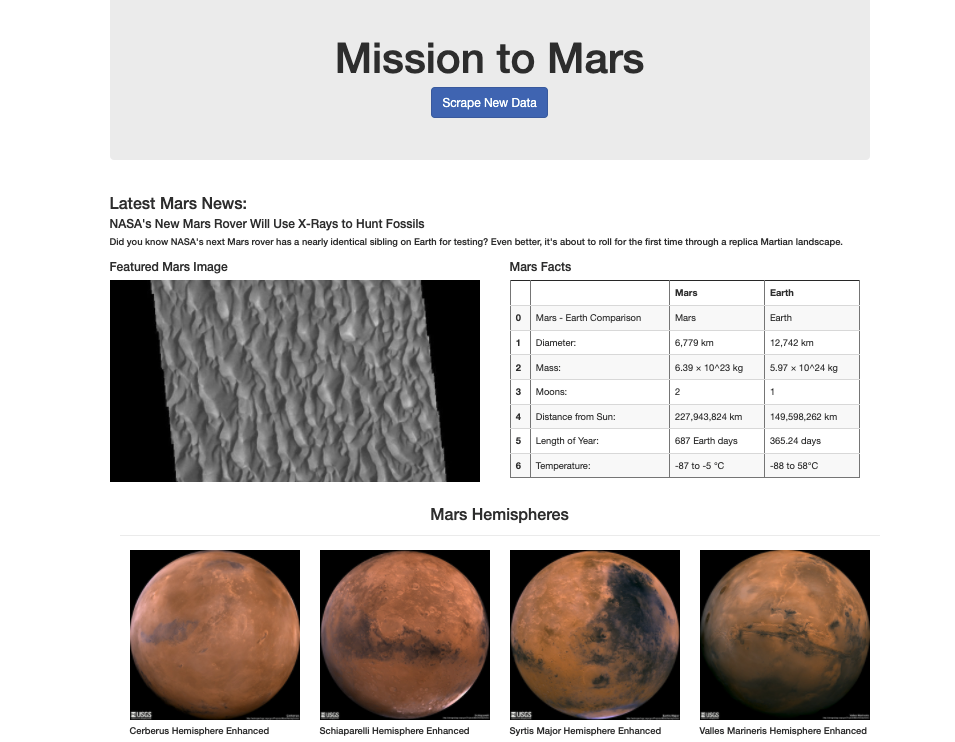
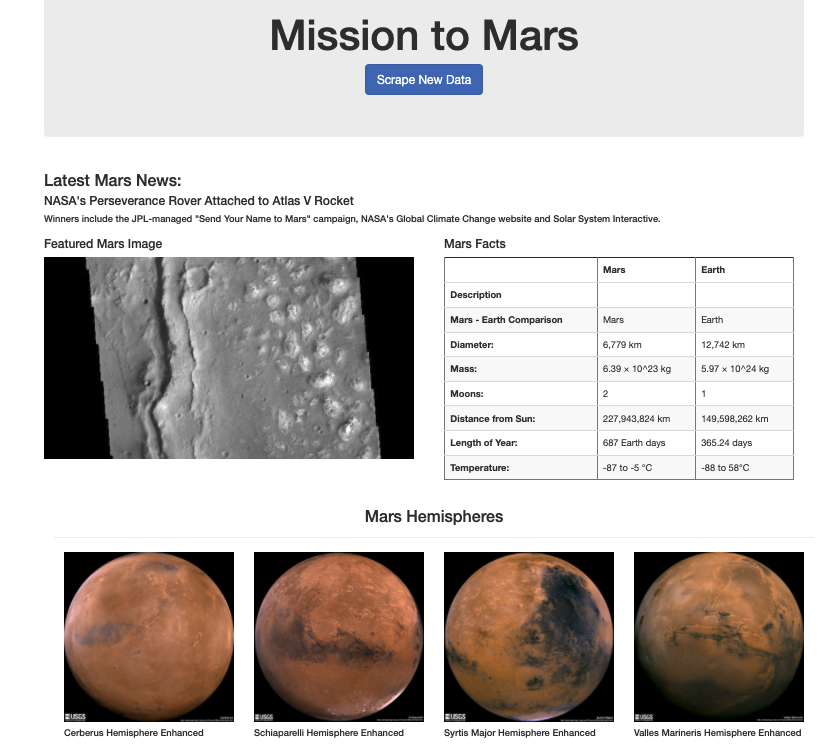
Last updates.

diff --git a/Mission_to_Mars/Flask_App/scrape_mars.py b/Mission_to_Mars/Flask_App/scrape_mars.py
@@ -96,10 +96,8 @@ def facts(browser):
     url = 'https://galaxyfacts-mars.com/'
 
     table_0 = pd.read_html(url)[0]
-    columns = table_0.columns = [' ', 'Mars', 'Earth']
-    #description = {' ': 'Description', 'Mars': ' ', 'Earth': ' '}
-    #table_0.append(description, ignore_index=True)
-    table_0.set_index(columns)
+    table_0.columns = ['Description', 'Mars', 'Earth']
+    table_0.set_index('Description', inplace=True)
     html_table_0 = table_0.to_html(classes="data table table-striped")
 
     return html_table_0
